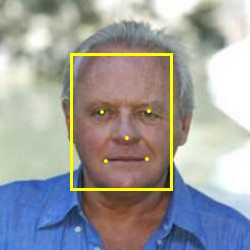
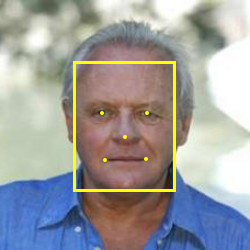
Updated mtcnn service for handling different heights and weights

diff --git a/src/main/java/net/tzolov/cv/mtcnn/MtcnnService.java b/src/main/java/net/tzolov/cv/mtcnn/MtcnnService.java
@@ -48,7 +48,7 @@ import org.springframework.util.Assert;
 
 /** @author Christian Tzolov */
 public class MtcnnService {
-  public static final String MXNET_MODEL_CLASSPATH = "/home/dzly/mtcnn-java/src/main/resources/mxnet_model/";
+  public static final String MXNET_MODEL_CLASSPATH = "/home/dzly/projects/countr_face_recognition/mtcnn-java/src/main/resources/mxnet_model/";
   public final String MXNET_MODEL_FOLDER;
 
   private final Java2DNativeImageLoader imageLoader;
@@ -73,11 +73,6 @@ public class MtcnnService {
 
     this.imageLoader = new Java2DNativeImageLoader();
 
-    // this.proposeNetGraphRunner = this.createGraphRunner(TF_PNET_MODEL_URI, "pnet/input");
-    // this.refineNetGraphRunner = this.createGraphRunner(TF_RNET_MODEL_URI, "rnet/input");
-    // this.outputNetGraphRunner = this.createGraphRunner(TF_ONET_MODEL_URI, "onet/input");
-
-    // End of old constructor
     this.imageWidth = imageWidth;
     this.imageHeight = imageHeight;
     this.scales =
@@ -110,21 +105,6 @@ public class MtcnnService {
     return new MxNetLoader(sizes, mxnetModelUri);
   }
 
-  // private GraphRunner createGraphRunner(String tensorflowModelUri, String inputLabel) {
-  //   try {
-  //     return new GraphRunner(
-  //         IOUtils.toByteArray(
-  //             new DefaultResourceLoader().getResource(tensorflowModelUri).getInputStream()),
-  //         Arrays.asList(inputLabel));
-  //     // ConfigProto.getDefaultInstance());
-  //   } catch (IOException e) {
-  //     throw new IllegalStateException(
-  //         String.format(
-  //             "Failed to load TF model [%s] and input [%s]:", tensorflowModelUri, inputLabel),
-  //         e);
-  //   }
-  // }
-
   /**
    * Detects faces in an image, and returns bounding boxes and points for them.
    *
@@ -146,7 +126,6 @@ public class MtcnnService {
   public FaceAnnotation[] faceDetection(BufferedImage bImage) throws IOException {
     INDArray ndImage3HW =
         this.imageLoader.asMatrix(bImage).get(point(0), interval(0, 3), all(), all());
-    // INDArray ndImage3HW = this.imageLoader.asMatrix(bImage).get(point(0), all(), all(), all());
     return faceDetection(ndImage3HW);
   }
 
@@ -457,18 +436,27 @@ public class MtcnnService {
         MtcnnUtil.pad(totalBoxes, (int) image.shape()[1], (int) image.shape()[0]);
 
     INDArray tempImg1 = computeTempImage(image, numBoxes, padResult, 48);
-    INDArray outputTemp = tempImg1.permute(0, 3, 2, 1);
+    INDArray outputTemp = (this.imageWidth > this.imageHeight)
+      ? tempImg1.permute(0, 3, 1, 2)
+      : tempImg1.permute(0, 3, 2, 1);
+    // INDArray outputTemp =  tempImg1.permute(0, 3, 2, 1);
 
     List<INDArray> resultList = outputNetGraphRunnerMxnet.runOutput(outputTemp);
+    System.out.println("DARIUS out0 " + resultList.get(0));
+    System.out.println("DARIUS out1 " + resultList.get(1));
+    System.out.println("DARIUS out2 " + resultList.get(2));
     INDArray out0 = resultList.get(1);
     INDArray out1 = resultList.get(0);
     INDArray out2 = resultList.get(2);
 
     INDArray score = out2.get(all(), point(1)).transposei();
+    System.out.println("DARIUS score " + score);
 
     INDArray points = out1;
 
     INDArray ipass = MtcnnUtil.getIndexWhereVector(score.transpose(), s -> s > stepsThreshold[2]);
+    
+    System.out.println("DARIUS ipass " + ipass);
 
     if (ipass.isEmpty()) {
       return new INDArray[] {Nd4j.empty(), Nd4j.empty()};
